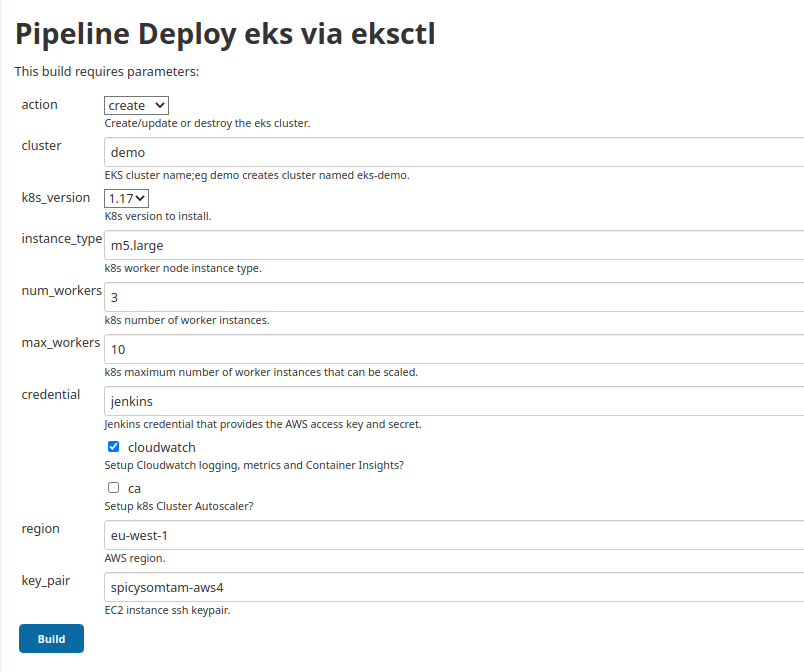
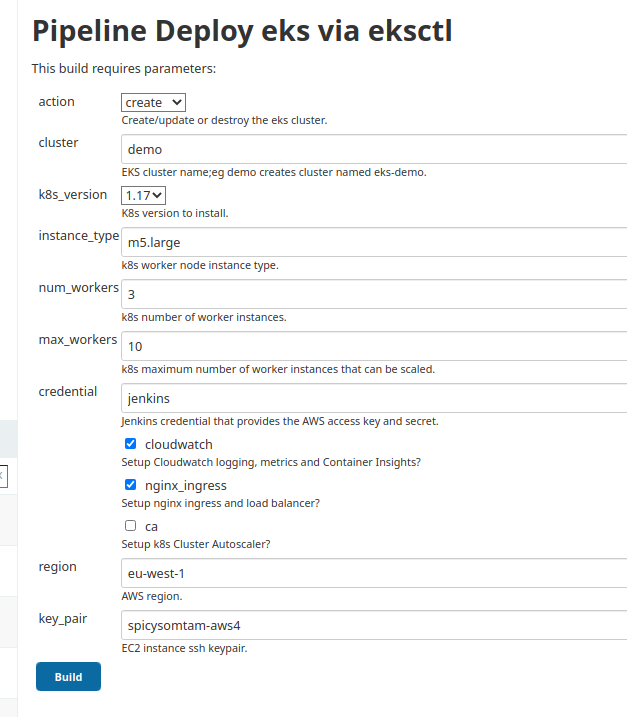
Update docs and image

Changed region(s): [[0.0, 0.0, 1.0, 0.9688], [0.0, 0.6562, 0.0303, 0.6875]]

diff --git a/README.md b/README.md
@@ -8,6 +8,6 @@ You can see my notes on Fargate [here](https://github.com/spicysomtam/jenkins-de
 
 There are lots of options for `eksctl`; most of this is documented at [eksctl.io](https://eksctl.io), although you might want to issue `--help` against the latest binary to see what options are available.
 
-I kept the Cluster Autoscaler and Cloudwatch logs/metrics/container insights. These all work as per the `terraform` solution.
+I kept the Cluster Autoscaler, Cloudwatch logs/metrics/container insights and nginx ingress. These all work as per the `terraform` solution.
 
 ![Screenshot of the parameters](Jenkins.png)
